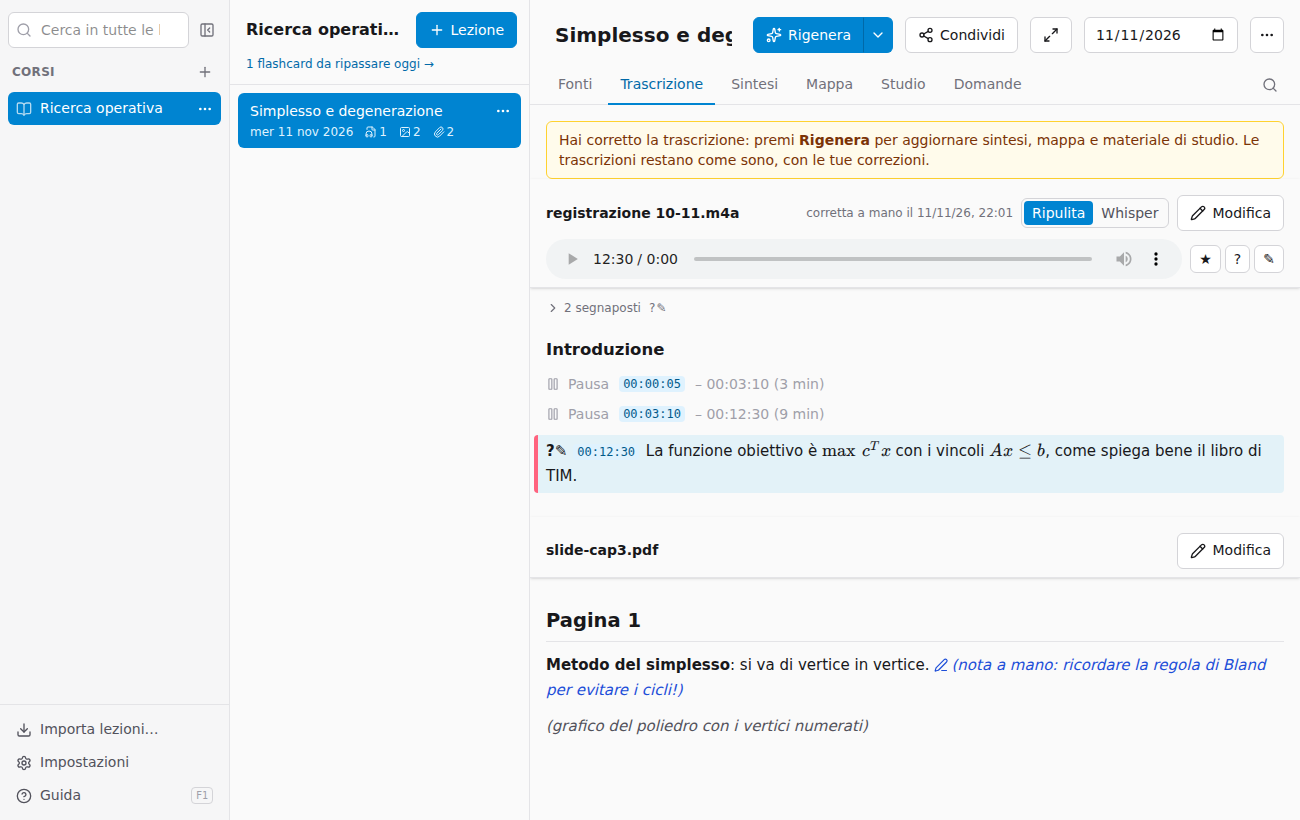
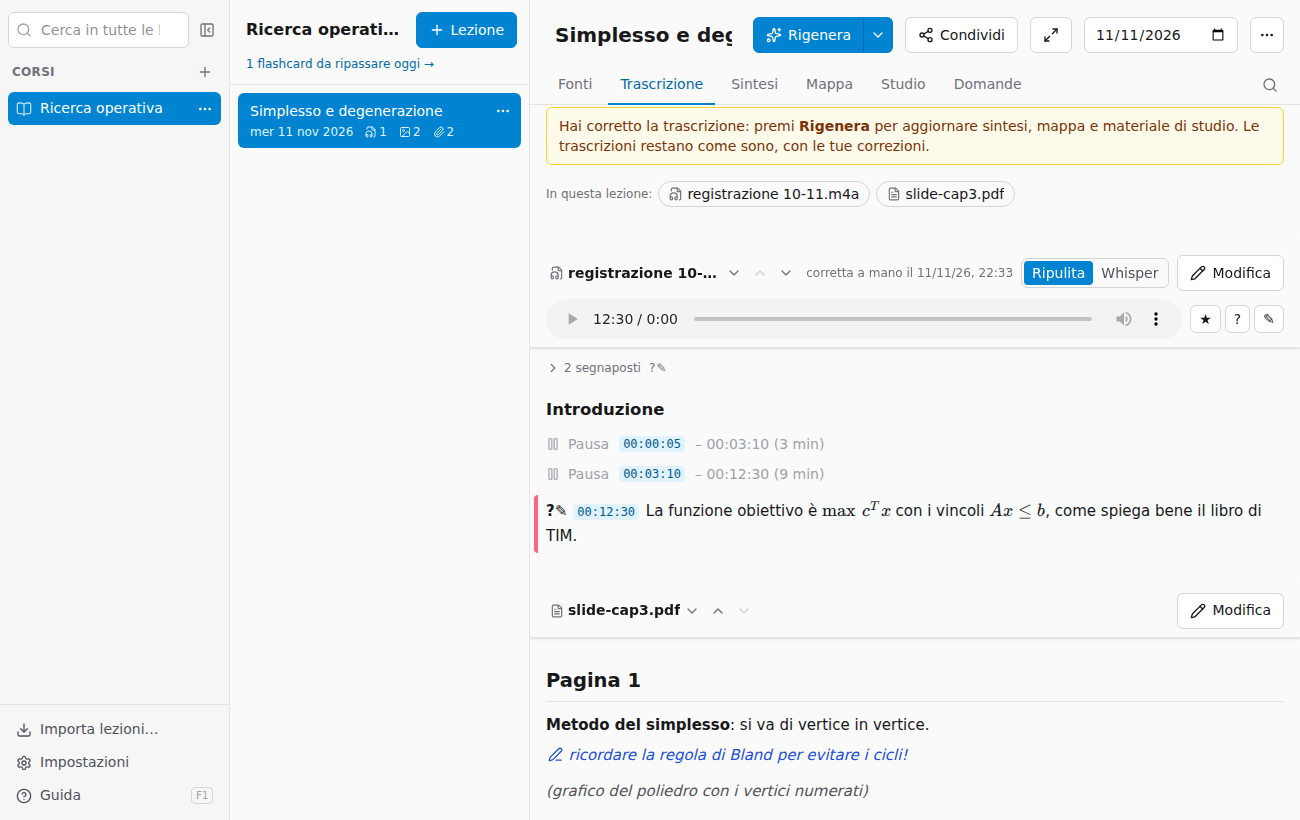
Jump between the documents of a transcript; handwritten notes on their own line

diff --git a/src/features/lesson/Outputs.tsx b/src/features/lesson/Outputs.tsx
@@ -1,5 +1,5 @@
 import { ask } from "@tauri-apps/plugin-dialog";
-import { ArrowUpRight, ChevronDown, ChevronRight, FileDown, Pause, Pencil, Plus, RotateCcw, Shuffle, Sparkles, Trash2, X } from "lucide-react";
+import { ArrowUpRight, ChevronDown, ChevronRight, ChevronUp, FileAudio, FileDown, FileText, FileVideo, Image as ImageIcon, Pause, Pencil, Plus, RotateCcw, Shuffle, Sparkles, Trash2, X } from "lucide-react";
 import { useCallback, useEffect, useMemo, useRef, useState, useSyncExternalStore } from "react";
 import { ai, api, courseAi, costLine, share, fileUrl, sourceFile, toAppError, type Course, type JobEvent, type Bookmark, type BookmarkKind, type Lesson, type MapNode, type Outputs, type Study } from "../../lib/api";
 import { Markdown, MARK_ICON, MARK_LABEL, toSecs } from "../../lib/Markdown";
@@ -518,6 +518,60 @@ function MarkList({
   );
 }
 
+function SourceIcon({ kind }: { kind: Lesson["sources"][number]["kind"] }) {
+  const Icon = kind === "audio" ? FileAudio : kind === "video" ? FileVideo : kind === "image" ? ImageIcon : FileText;
+  return <Icon className="size-3.5 shrink-0 text-zinc-500" aria-hidden />;
+}
+
+/** The name of a document in its header: a menu to jump to the others, and ↑ ↓. */
+function DocSwitcher({ docs, current, onGo }: { docs: Lesson["sources"]; current: number; onGo: (id: string) => void }) {
+  const [open, setOpen] = useState(false);
+  useEffect(() => {
+    if (!open) return;
+    const k = (e: KeyboardEvent) => e.key === "Escape" && setOpen(false);
+    window.addEventListener("keydown", k);
+    return () => window.removeEventListener("keydown", k);
+  }, [open]);
+  const s = docs[current];
+  const arrow = "rounded p-1 text-zinc-500 hover:bg-zinc-200 disabled:opacity-30 dark:hover:bg-zinc-800";
+  return (
+    <div className="relative flex min-w-0 flex-1 items-center gap-0.5">
+      <button className="flex min-w-0 items-center gap-1 rounded px-1 font-semibold hover:bg-zinc-200 dark:hover:bg-zinc-800" onClick={() => setOpen(!open)} title="Vai a un altro documento della lezione" aria-haspopup="menu">
+        <SourceIcon kind={s.kind} />
+        <span className="truncate">{s.originalName}</span>
+        <ChevronDown className="size-4 shrink-0 text-zinc-500" />
+      </button>
+      <button className={arrow} disabled={current === 0} onClick={() => onGo(docs[current - 1].id)} title="Documento precedente" aria-label="Documento precedente">
+        <ChevronUp className="size-4" />
+      </button>
+      <button className={arrow} disabled={current === docs.length - 1} onClick={() => onGo(docs[current + 1].id)} title="Documento successivo" aria-label="Documento successivo">
+        <ChevronDown className="size-4" />
+      </button>
+      {open && (
+        <>
+          <div className="fixed inset-0 z-30" onClick={() => setOpen(false)} />
+          <div className="anim-pop absolute top-full left-0 z-40 mt-1 w-72 rounded-md border border-zinc-200 bg-white p-1 text-sm shadow-lg dark:border-zinc-700 dark:bg-zinc-900" role="menu">
+            {docs.map((d, i) => (
+              <button
+                key={d.id}
+                role="menuitem"
+                className={`flex w-full items-center gap-2 rounded px-2 py-1.5 text-left hover:bg-zinc-100 dark:hover:bg-zinc-800 ${i === current ? "font-semibold" : ""}`}
+                onClick={() => {
+                  setOpen(false);
+                  onGo(d.id);
+                }}
+              >
+                <SourceIcon kind={d.kind} />
+                <span className="truncate">{d.originalName}</span>
+              </button>
+            ))}
+          </div>
+        </>
+      )}
+    </div>
+  );
+}
+
 export function TranscriptTab({ lesson, outputs, seek, process, editing, onBookmarks }: { lesson: Lesson; outputs: Outputs; seek: Seek | null; process: React.ReactNode; editing?: Editing; onBookmarks: () => void }) {
   const [view, setView] = useState<Record<string, "clean" | "raw">>({});
   const [editingId, setEditingId] = useState<string | null>(null);
@@ -599,10 +653,22 @@ export function TranscriptTab({ lesson, outputs, seek, process, editing, onBookm
       p.play().catch(() => {});
     }
   };
+  const goTo = (id: string) => sections.current[id]?.scrollIntoView({ behavior: "smooth", block: "start" });
   return (
     <div className="mx-auto max-w-3xl space-y-10">
       <RegenerateHint lesson={lesson} outputs={outputs} />
-      {withText.map((s) => {
+      {withText.length > 1 && (
+        <nav className="flex flex-wrap items-center gap-1.5 pb-2 text-sm" aria-label="Documenti della lezione">
+          <span className="text-xs text-zinc-500">In questa lezione:</span>
+          {withText.map((s) => (
+            <button key={s.id} className="flex max-w-56 items-center gap-1 rounded-full border border-zinc-300 px-2.5 py-0.5 hover:bg-zinc-100 dark:border-zinc-700 dark:hover:bg-zinc-800" onClick={() => goTo(s.id)} title={`Vai a ${s.originalName}`}>
+              <SourceIcon kind={s.kind} />
+              <span className="truncate">{s.originalName}</span>
+            </button>
+          ))}
+        </nav>
+      )}
+      {withText.map((s, idx) => {
         const media = s.kind === "audio" || s.kind === "video";
         const raw = outputs.raw[s.id];
         const showRaw = !!raw && view[s.id] === "raw";
@@ -610,9 +676,13 @@ export function TranscriptTab({ lesson, outputs, seek, process, editing, onBookm
           <section key={s.id} ref={(el) => void (sections.current[s.id] = el)} className="scroll-mt-4">
             <div className="sticky -top-4 z-10 -mx-4 -mt-4 mb-3 border-b border-zinc-200 bg-zinc-50 px-4 pt-4 pb-2 shadow-sm dark:border-zinc-800 dark:bg-zinc-950">
               <div className="flex flex-wrap items-center gap-2">
-                <h3 className="min-w-0 flex-1 truncate font-semibold" title={s.originalName}>
-                  {s.originalName}
-                </h3>
+                {withText.length > 1 ? (
+                  <DocSwitcher docs={withText} current={idx} onGo={goTo} />
+                ) : (
+                  <h3 className="min-w-0 flex-1 truncate font-semibold" title={s.originalName}>
+                    {s.originalName}
+                  </h3>
+                )}
                 {s.edited && editingId !== s.id && <span className="text-xs text-zinc-500">corretta a mano il {fmtDate(s.edited)}</span>}
                 {raw && editingId !== s.id && (
                   <div className="flex rounded-md border border-zinc-300 p-0.5 text-sm dark:border-zinc-700" role="group" aria-label="Versione del testo">

diff --git a/src/lib/Markdown.tsx b/src/lib/Markdown.tsx
@@ -1,6 +1,6 @@
 import "katex/dist/katex.min.css";
 import { Pause, PenLine } from "lucide-react";
-import { useMemo } from "react";
+import { createElement, Fragment, useMemo } from "react";
 import ReactMarkdown from "react-markdown";
 import rehypeKatex from "rehype-katex";
 import remarkGfm from "remark-gfm";
@@ -64,6 +64,16 @@ function marksByParagraph(text: string, marks: Mark[]): Map<number, Mark[]> {
     if (t !== undefined) out.set(t, [...(out.get(t) ?? []), m]);
   }
   return out;
+}
+
+/** "(nota a mano: …)" shown as "…": the pen says it already (the file keeps the words). */
+function withoutNoteLabel(children: React.ReactNode): React.ReactNode {
+  const kids = Array.isArray(children) ? [...children] : [children];
+  if (typeof kids[0] === "string") kids[0] = kids[0].replace(/^\s*\(\s*nota a mano\s*:?\s*/i, "");
+  const last = kids.length - 1;
+  if (typeof kids[last] === "string") kids[last] = (kids[last] as string).replace(/\)\s*$/, "");
+  // Spread, not an array: the parts have no keys.
+  return createElement(Fragment, null, ...kids);
 }
 
 /** All the text of a hast node. */
@@ -134,8 +144,8 @@ export function Markdown({
           em: ({ node, children }) =>
             /^\(?\s*nota a mano\b/i.test(textOf(node).trim()) ? (
               <em className="handwritten" title="Scritto a mano sulla pagina">
-                <PenLine className="handwritten-pen" aria-hidden />
-                {children}
+                <PenLine className="handwritten-pen" aria-label="Scritto a mano" />
+                {withoutNoteLabel(children)}
               </em>
             ) : (
               <em>{children}</em>

diff --git a/src/lib/prose.css b/src/lib/prose.css
@@ -20,4 +20,5 @@
 [data-card] .prose-lezioni { font-size: inherit; }
 .handwritten, .prose-lezioni em.handwritten { color: rgb(29 78 216); }
 .dark .handwritten, .dark .prose-lezioni em.handwritten { color: rgb(147 197 253); }
-.handwritten-pen { display: inline; width: 0.95em; height: 0.95em; margin-right: 0.2em; vertical-align: -0.1em; }
+.handwritten { display: block; position: relative; margin: 0.35em 0; padding-left: 1.5em; }
+.handwritten-pen { position: absolute; left: 0.1em; top: 0.25em; width: 1em; height: 1em; }

diff --git a/docs/manuale/03-fonti.md b/docs/manuale/03-fonti.md
@@ -38,7 +38,7 @@ Le fonti sono raggruppate per tipo. Le registrazioni si ascoltano direttamente n
 
 ## Appunti a mano su slide e foto
 
-PDF e foto vengono letti dal modello come immagini, pagina per pagina: vede anche quello che hai scritto a mano sopra una slide stampata o una dispensa, le evidenziature e le frecce. Questi appunti finiscono nel testo letto nel punto in cui sono, come *(nota a mano: …)*, e nell'app si vedono **in blu, con una penna** davanti, così li distingui dal testo stampato; per un'evidenziatura viene scritto cosa è evidenziato. Così entrano anche nella sintesi e nelle domande. Una grafia molto difficile può essere letta male: controlla nella scheda Trascrizione, dove ogni fonte ha il suo testo e si corregge con **Modifica**. Con OpenRouter un PDF può pesare fino a 50 MB (provato con 59 pagine di slide annotate, 33 MB: circa mezzo minuto e 3 centesimi).
+PDF e foto vengono letti dal modello come immagini, pagina per pagina: vede anche quello che hai scritto a mano sopra una slide stampata o una dispensa, le evidenziature e le frecce. Questi appunti finiscono nel testo letto nel punto in cui sono, ognuno su una riga sua, e nell'app si vedono **in blu, con una matita** davanti, così li distingui dal testo stampato (nel file Markdown sono scritti come *(nota a mano: …)*); per un'evidenziatura viene scritto cosa è evidenziato. Così entrano anche nella sintesi e nelle domande. Una grafia molto difficile può essere letta male: controlla nella scheda Trascrizione, dove ogni fonte ha il suo testo e si corregge con **Modifica**. Con OpenRouter un PDF può pesare fino a 50 MB (provato con 59 pagine di slide annotate, 33 MB: circa mezzo minuto e 3 centesimi).
 
 ![Appunti a mano su una slide, in blu](img/appunti-a-mano.png)
 

diff --git a/CHANGELOG.md b/CHANGELOG.md
@@ -2,6 +2,8 @@
 
 ## Prossima versione
 
+- Trascrizione: si passa da un documento all'altro (registrazione, slide, foto) con la riga **In questa lezione**, con il menu sul nome del documento o con le frecce ↑ ↓, senza scorrere tutta la pagina.
+- Gli appunti a mano stanno ognuno su una riga, con la matita e senza la scritta «nota a mano:» ripetuta.
 - **Mappa → trascrizione**: la freccia accanto a un concetto porta al punto della registrazione in cui se ne parla.
 - **Mappa in PDF** (scheda Mappa → Esporta in PDF), disegnata come nell'app su una pagina orizzontale; anche nel PDF della lezione la mappa è ora disegnata invece che un elenco.
 - Gli **appunti a mano** letti dalle slide si vedono in blu, con una penna.

diff --git a/docs/manuale/05-studiare.md b/docs/manuale/05-studiare.md
@@ -6,6 +6,8 @@ La scheda **Trascrizione** mostra il testo di ogni fonte: le registrazioni trasc
 
 Ogni paragrafo inizia con il **minuto** in cui comincia: cliccalo e la registrazione riparte da lì.
 
+Se la lezione ha più documenti (registrazione, slide, foto), in cima c'è la riga **In questa lezione** con un'etichetta per ciascuno: cliccala per andarci. Mentre scorri, il nome del documento in alto apre l'elenco degli altri, e le frecce ↑ ↓ accanto portano al precedente e al successivo.
+
 ![La trascrizione con i minuti cliccabili](img/trascrizione.png)
 
 ### Segnaposti mentre ascolti
